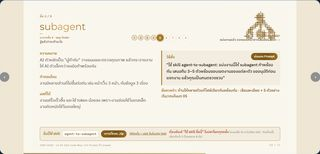
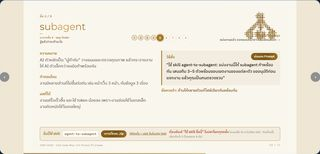
Vibe Code Way: hand out only the 6 skills used (own zip); add the Git prompt page after step 1; drop references to cut steps (test, push github) and other chapters
Claude-Session: https://claude.ai/code/session_01B1v9jyRD8MFjcV6ktsYkvy

diff --git a/cover/vibe/deck-04.html b/cover/vibe/deck-04.html
@@ -191,13 +191,13 @@ html.thumb .say-cpy{display:none}
   <canvas id="dust"></canvas>
   <section class="slide" data-dust="num:04">
     <div class="abs kick r" style="left:6cqw;top:5cqw">Gen AI Space · Vibe Code</div>
-    <div class="abs kick r" style="right:6cqw;top:5cqw">คอร์ส 1 วัน</div>
-    <div class="abs r" style="left:6cqw;bottom:6.5cqw;width:60cqw;--d:.8"><div class="kick">บท 04</div><h2 style="font-size:4cqw">Vibe Code Way: จาก Prompt ถึง Create</h2></div>
+    
+    <div class="abs r" style="left:6cqw;bottom:6.5cqw;width:60cqw;--d:.8"><div class="kick">Vibe Code</div><h2 style="font-size:4cqw">Vibe Code Way: จาก Prompt ถึง Create</h2></div>
   </section>
 
 
   <section class="slide" data-dust="none" id="vcw">
-    <div class="r" style="--d:0"><div class="kick">บท 04 · ความหมายในหน้าเดียว · กดที่ขั้นไหนเพื่อเปิดหน้านั้น</div><h2>Vibe Code Way <em>9 ขั้น</em></h2></div>
+    <div class="r" style="--d:0"><div class="kick">ความหมายในหน้าเดียว · กดที่ขั้นไหนเพื่อเปิดหน้านั้น</div><h2>Vibe Code Way <em>9 ขั้น</em></h2></div>
         <svg class="abs vsvg" style="left:0;top:0;width:100cqw;height:56.25cqw" viewBox="0 0 100 56.25" preserveAspectRatio="none" aria-hidden="true">
       <defs><marker id="vah" viewBox="0 0 10 10" refX="9" refY="5" markerUnits="userSpaceOnUse" markerWidth="1.4" markerHeight="1.4" orient="auto"><path d="M0 0L10 5L0 10z" fill="#a27628"/></marker></defs>
       <path class="va" style="--i:0" d="M21.6 18.0 L23.8 18.0"/>
@@ -211,12 +211,12 @@ html.thumb .say-cpy{display:none}
       <path id="vtravel" d="M13.8 18.0 L31.9 18.0 L50.0 18.0 L68.1 18.0 L86.2 18.0 L86.2 29.8 L68.1 29.8 L50.0 29.8 L31.9 29.8" fill="none" stroke="none"/>
     </svg>
     <div class="vlight"></div>
-      <div class="vn prep" style="left:6.0cqw;top:13.2cqw;--i:0"><b>1</b><span>install git</span><small>มีจุดเซฟ ย้อนกลับได้ (บท 02)</small><i>เตรียม</i></div>
+      <div class="vn prep" style="left:6.0cqw;top:13.2cqw;--i:0"><b>1</b><span>install git</span><small>มีจุดเซฟ ย้อนกลับได้</small><i>เตรียม</i></div>
       <div class="vn start" style="left:24.1cqw;top:13.2cqw;--i:1"><b>2</b><span>Prompt</span><small>บอกโจทย์เป็นภาษาคน</small><i>เริ่ม</i></div>
       <div class="vn plan" style="left:42.2cqw;top:13.2cqw;--i:2"><b>3</b><span>grill</span><small>ให้ AI จี้ถามทีละข้อจนโจทย์ชัด</small><i>วางแผน</i></div>
       <div class="vn plan" style="left:60.3cqw;top:13.2cqw;--i:3"><b>4</b><span>way finder</span><small>ลังเล? ให้ AI สรุป 3 ทางเลือกแล้วเคาะ</small><i>วางแผน</i></div>
       <div class="vn build" style="left:78.4cqw;top:13.2cqw;--i:4"><b>5</b><span>subagent</span><small>แบ่งงานให้ผู้ช่วยย่อยทำพร้อมกัน</small><i>แบ่งงาน</i></div>
-      <div class="vn plan" style="left:78.4cqw;top:25.0cqw;--i:5"><b>6</b><span>design</span><small>ออกแบบ UX/UI ก่อนสร้าง ได้ DESIGN.md (บท 07)</small><i>ออกแบบ</i></div>
+      <div class="vn plan" style="left:78.4cqw;top:25.0cqw;--i:5"><b>6</b><span>design</span><small>ออกแบบ UX/UI ก่อนสร้าง ได้ DESIGN.md</small><i>ออกแบบ</i></div>
       <div class="vn note" style="left:60.3cqw;top:25.0cqw;--i:6"><b>7</b><span>PRD</span><small>เขียนสเปกงาน: ทำอะไร ใครใช้ เสร็จคือแบบไหน</small><i>บันทึก</i></div>
       <div class="vn check" style="left:42.2cqw;top:25.0cqw;--i:7"><b>8</b><span>review 10</span><small>ให้ AI ให้คะแนน PRD เต็ม 10 แก้จนผ่าน</small><i>ตรวจสอบ</i></div>
       <div class="vn build" style="left:24.1cqw;top:25.0cqw;--i:8"><b>9</b><span>create</span><small>สร้างทีละส่วน Brick by Brick</small><i>สร้าง</i></div>
@@ -225,7 +225,7 @@ html.thumb .say-cpy{display:none}
   </section>
 
   <section class="slide" data-dust="none">
-    <div class="r" style="--d:0"><div class="kick">บท 04 · ติดตั้งครั้งเดียว</div><h2>รวม Skill ที่ต้องใช้ <em>โหลดไฟล์เดียว ติดตั้งทีเดียว</em></h2></div>
+    <div class="r" style="--d:0"><div class="kick">ติดตั้งครั้งเดียว</div><h2>รวม Skill ที่ต้องใช้ <em>โหลดไฟล์เดียว ติดตั้งทีเดียว</em></h2></div>
     <div class="abs r sk7" style="left:6cqw;top:12.6cqw;width:52cqw;--d:.4">
       <div class="row h"><span>skill</span><span>ใช้ในขั้น</span><span>ทำอะไร</span></div>
       <div class="row"><code>grill-with-doc</code><span>3 grill</span><span>จี้ถามทีละข้อจนโจทย์ชัด</span></div>
@@ -234,26 +234,26 @@ html.thumb .say-cpy{display:none}
       <div class="row"><code>to-prd</code><span>7 PRD</span><span>เขียนสเปกงานจากที่คุยกัน</span></div>
       <div class="row"><code>self-review-to-10</code><span>8 review 10</span><span>ให้คะแนน PRD เต็ม 10 แก้จนผ่าน</span></div>
       <div class="row"><code>frontend-design</code><span>9 create</span><span>ออกแบบหน้าเว็บให้สวยใช้ได้จริง</span></div>
-      <a class="bigdl" href="../assets/skills/vibe-code-skills.zip?v=2" download="vibe-code-skills.zip">ดาวน์โหลดรวม 8 skill (ไฟล์เดียว .zip)</a>
+      <a class="bigdl" href="https://agentic-ai-for-everything.vercel.app/assets/skills/vibe-code-way-6-skills.zip" download="vibe-code-way-6-skills.zip">ดาวน์โหลดรวม 6 skill (ไฟล์เดียว .zip)</a>
       <p class="tiny">ไฟล์ต้นทางรายตัวอยู่ที่ <a href="https://genaispace.net/skill-vault/" target="_blank" rel="noopener">genaispace.net/skill-vault</a> · ใช้ได้ทั้ง Claude Code และ Codex</p>
     </div>
     <div class="abs r inst" style="left:61cqw;width:33cqw;top:12.6cqw;--d:.7">
-      <div><b><i>1</i>แตก zip</b><span>ได้โฟลเดอร์ 8 โฟลเดอร์ + README.md</span></div>
-      <div><b><i>2</i>ลากทั้ง 8 โฟลเดอร์ไปวางทีเดียว</b><span>วางใน my-vibecode-workspace\skills\ ที่ Prompt บท 02 สร้างไว้ให้แล้ว ใช้ได้ทั้ง Claude และ Codex</span><span class="alt">อยากใช้ทุกโปรเจกต์: วางที่ C:\Users\&lt;ชื่อ&gt;\.claude\skills\ (Claude) หรือ .codex\skills\ (Codex) แทน</span></div>
+      <div><b><i>1</i>แตก zip</b><span>ได้โฟลเดอร์ 6 โฟลเดอร์ + README.md</span></div>
+      <div><b><i>2</i>ลากทั้ง 6 โฟลเดอร์ไปวางทีเดียว</b><span>วางใน my-vibecode-workspace\skills\ ที่สร้างไว้แล้ว ใช้ได้ทั้ง Claude และ Codex</span><span class="alt">อยากใช้ทุกโปรเจกต์: วางที่ C:\Users\&lt;ชื่อ&gt;\.claude\skills\ (Claude) หรือ .codex\skills\ (Codex) แทน</span></div>
       <div><b><i>3</i>สั่งครั้งแรก ให้ AI เรียนรู้</b><p class="say2">"เข้าดูโฟลเดอร์ skills ของคุณ อ่าน README.md และ SKILL.md ของทุก skill แล้วสรุปว่ามีอะไรบ้าง ใช้ตอนไหน"</p></div>
       <div class="must"><b>ตอนใช้ ต้องบอกชื่อทุกครั้ง</b><span>พิมพ์ "ใช้ skill grill-with-doc: ..." ไม่บอกชื่อ AI จะไม่เรียก skill ให้ (ประโยคในแต่ละขั้นมีชื่อใส่ไว้แล้ว)</span></div>
     </div>
   </section>
   <section class="slide" data-dust="corner:git">
     <div class="r" style="--d:0"><div class="kick">ขั้น 1 / 9</div><h2><em>install git</em></h2></div>
-    <div class="flow r" style="--d:.25"><span class="pv"><small>จุดเริ่มต้น</small>ทำครั้งเดียวต่อเครื่อง (บท 02)</span><div class="dots"><i class="cur" title="1 install git">1</i><i class="" title="2 Prompt">2</i><i class="" title="3 grill">3</i><i class="" title="4 way finder">4</i><i class="" title="5 subagent">5</i><i class="" title="6 design">6</i><i class="" title="7 PRD">7</i><i class="" title="8 review 10">8</i><i class="" title="9 create">9</i></div><span class="nx"><small>ไปต่อขั้น 2 · Prompt</small>มีจุดเซฟแล้ว ค่อยเริ่มสั่งงาน</span></div>
+    <div class="flow r" style="--d:.25"><span class="pv"><small>จุดเริ่มต้น</small>ทำครั้งเดียวต่อเครื่อง</span><div class="dots"><i class="cur" title="1 install git">1</i><i class="" title="2 Prompt">2</i><i class="" title="3 grill">3</i><i class="" title="4 way finder">4</i><i class="" title="5 subagent">5</i><i class="" title="6 design">6</i><i class="" title="7 PRD">7</i><i class="" title="8 review 10">8</i><i class="" title="9 create">9</i></div><span class="nx"><small>ไปต่อขั้น 2 · Prompt</small>มีจุดเซฟแล้ว ค่อยเริ่มสั่งงาน</span></div>
     <div class="st r" style="--d:.5">
       <dl>
         <div><dt>ความหมาย</dt><dd>ติดตั้ง Git ให้เครื่องเก็บ "จุดเซฟ" ของงานได้ แก้แล้วไม่ชอบก็ย้อนกลับได้</dd></div>
-        <div><dt>ทำตอนไหน</dt><dd>ครั้งเดียวต่อเครื่อง ก่อนเริ่มงานแรก (ทำไปแล้วในบท 02 สไลด์ 8)</dd></div>
-        <div><dt>ผลที่ได้</dt><dd>ทุกขั้นหลังจากนี้มีจุดเซฟรองรับ: create เซฟทุกส่วนที่ใช้ได้, push github ส่งจุดเซฟขึ้นคลาวด์</dd></div>
+        <div><dt>ทำตอนไหน</dt><dd>ครั้งเดียวต่อเครื่อง ก่อนเริ่มงานแรก</dd></div>
+        <div><dt>ผลที่ได้</dt><dd>ทุกขั้นหลังจากนี้มีจุดเซฟรองรับ: create เซฟทุกส่วนที่ใช้ได้</dd></div>
       </dl>
-      <div><div class="say"><small>วิธีสั่ง</small><p>วาง Prompt ① "ติดตั้ง Git" แล้ว Prompt ② "เริ่มเก็บจุดเซฟ" จากบท 02 สไลด์ 8<br><br>ระหว่างทำงาน พูดแค่ "เซฟจุดนี้ไว้หน่อย" หรือ "ย้อนกลับไปตอนที่เซฟไว้" ไม่ต้องรู้คำสั่ง Git</p></div>
+      <div><div class="say"><small>วิธีสั่ง</small><p>วาง Prompt ① "ติดตั้ง Git" แล้ว Prompt ② "เริ่มเก็บจุดเซฟ" จากหน้าถัดไป<br><br>ระหว่างทำงาน พูดแค่ "เซฟจุดนี้ไว้หน่อย" หรือ "ย้อนกลับไปตอนที่เซฟไว้" ไม่ต้องรู้คำสั่ง Git</p></div>
         <p class="warn"><b>ข้อควรจำ:</b> โฟลเดอร์งานใหม่นอก my-vibecode-workspace ต้องวาง Prompt ② ใหม่อีกครั้ง ส่วน Prompt ① ไม่ต้องทำซ้ำ</p></div>
     </div>
   </section>
@@ -275,7 +275,7 @@ html.thumb .say-cpy{display:none}
   <section class="slide" data-dust="corner:question">
     <div class="r" style="--d:0"><div class="kick">ขั้น 3 / 9</div><h2><em>grill</em></h2></div>
     <div class="flow r" style="--d:.25"><span class="pv"><small>มาจากขั้น 2 · Prompt</small>มีโจทย์ตั้งต้นจากขั้น 2</span><div class="dots"><i class="done" title="1 install git">1</i><i class="done" title="2 Prompt">2</i><i class="cur" title="3 grill">3</i><i class="" title="4 way finder">4</i><i class="" title="5 subagent">5</i><i class="" title="6 design">6</i><i class="" title="7 PRD">7</i><i class="" title="8 review 10">8</i><i class="" title="9 create">9</i></div><span class="nx"><small>ไปต่อขั้น 4 · way finder</small>ถ้าคุยแล้วยังลังเล ใช้ way finder</span></div>
-    <div class="skl r" style="--d:1.2"><b>ขั้นนี้ใช้ skill</b><code>grill-with-doc</code><a class="dl" href="https://genaispace.net/wp-content/uploads/2026/09/grill-with-doc-1b86576b-public-20260906.zip" target="_blank" rel="noopener">ดาวน์โหลด .zip</a><a class="dl2" href="https://genaispace.net/skill-vault/" target="_blank" rel="noopener">วิธีติดตั้ง + skill อื่นในคลัง Skill</a><span><b style="color:#b4552f">ต้องพิมพ์ "ใช้ skill ชื่อนี้" ในประโยคทุกครั้ง</b> ไม่บอกชื่อ AI จะไม่เรียก skill · ติดตั้งครั้งเดียวที่หน้า 3 (โหลดรวม 8 ตัว)</span></div>
+    <div class="skl r" style="--d:1.2"><b>ขั้นนี้ใช้ skill</b><code>grill-with-doc</code><a class="dl" href="https://genaispace.net/wp-content/uploads/2026/09/grill-with-doc-1b86576b-public-20260906.zip" target="_blank" rel="noopener">ดาวน์โหลด .zip</a><a class="dl2" href="https://genaispace.net/skill-vault/" target="_blank" rel="noopener">วิธีติดตั้ง + skill อื่นในคลัง Skill</a><span><b style="color:#b4552f">ต้องพิมพ์ "ใช้ skill ชื่อนี้" ในประโยคทุกครั้ง</b> ไม่บอกชื่อ AI จะไม่เรียก skill · ติดตั้งครั้งเดียวที่หน้า 3 (โหลดรวม 6 ตัว)</span></div>
     <div class="st r" style="--d:.5">
       <dl>
         <div><dt>ความหมาย</dt><dd>ให้ AI "ย่าง" เรา คือจี้ถามทีละข้อจนโจทย์ชัด ก่อนเขียนโค้ดแม้แต่บรรทัดเดียว</dd></div>
@@ -290,7 +290,7 @@ html.thumb .say-cpy{display:none}
   <section class="slide" data-dust="corner:signpost">
     <div class="r" style="--d:0"><div class="kick">ขั้น 4 / 9</div><h2><em>way finder</em></h2></div>
     <div class="flow r" style="--d:.25"><span class="pv"><small>มาจากขั้น 3 · grill</small>grill แล้วยังเลือกไม่ถูก</span><div class="dots"><i class="done" title="1 install git">1</i><i class="done" title="2 Prompt">2</i><i class="done" title="3 grill">3</i><i class="cur" title="4 way finder">4</i><i class="" title="5 subagent">5</i><i class="" title="6 design">6</i><i class="" title="7 PRD">7</i><i class="" title="8 review 10">8</i><i class="" title="9 create">9</i></div><span class="nx"><small>ไปต่อขั้น 5 · subagent</small>ตกผลึกแล้ว แบ่งงานได้</span></div>
-    <div class="skl r" style="--d:1.2"><b>ขั้นนี้ใช้ skill</b><code>wayfinder-for-web-app-game</code><a class="dl" href="https://genaispace.net/wp-content/uploads/2026/09/wayfinder-for-web-app-game-491822d1-public-20260906.zip" target="_blank" rel="noopener">ดาวน์โหลด .zip</a><a class="dl2" href="https://genaispace.net/skill-vault/" target="_blank" rel="noopener">วิธีติดตั้ง + skill อื่นในคลัง Skill</a><span><b style="color:#b4552f">ต้องพิมพ์ "ใช้ skill ชื่อนี้" ในประโยคทุกครั้ง</b> ไม่บอกชื่อ AI จะไม่เรียก skill · ติดตั้งครั้งเดียวที่หน้า 3 (โหลดรวม 8 ตัว)</span></div>
+    <div class="skl r" style="--d:1.2"><b>ขั้นนี้ใช้ skill</b><code>wayfinder-for-web-app-game</code><a class="dl" href="https://genaispace.net/wp-content/uploads/2026/09/wayfinder-for-web-app-game-491822d1-public-20260906.zip" target="_blank" rel="noopener">ดาวน์โหลด .zip</a><a class="dl2" href="https://genaispace.net/skill-vault/" target="_blank" rel="noopener">วิธีติดตั้ง + skill อื่นในคลัง Skill</a><span><b style="color:#b4552f">ต้องพิมพ์ "ใช้ skill ชื่อนี้" ในประโยคทุกครั้ง</b> ไม่บอกชื่อ AI จะไม่เรียก skill · ติดตั้งครั้งเดียวที่หน้า 3 (โหลดรวม 6 ตัว)</span></div>
     <div class="st r" style="--d:.5">
       <dl>
         <div><dt>ความหมาย</dt><dd>ตัวจบการถกเถียง เมื่อคุยกันหลายรอบแล้วยังไม่ตกผลึก ลังเล วนไปวนมา</dd></div>
@@ -305,7 +305,7 @@ html.thumb .say-cpy{display:none}
   <section class="slide" data-dust="corner:network">
     <div class="r" style="--d:0"><div class="kick">ขั้น 5 / 9</div><h2><em>subagent</em></h2></div>
     <div class="flow r" style="--d:.25"><span class="pv"><small>มาจากขั้น 4 · way finder</small>รู้แล้วว่าจะทำอะไร</span><div class="dots"><i class="done" title="1 install git">1</i><i class="done" title="2 Prompt">2</i><i class="done" title="3 grill">3</i><i class="done" title="4 way finder">4</i><i class="cur" title="5 subagent">5</i><i class="" title="6 design">6</i><i class="" title="7 PRD">7</i><i class="" title="8 review 10">8</i><i class="" title="9 create">9</i></div><span class="nx"><small>ไปต่อขั้น 6 · design</small>แบ่งงานแล้ว ออกแบบหน้าตาก่อนเขียนสเปก</span></div>
-    <div class="skl r" style="--d:1.2"><b>ขั้นนี้ใช้ skill</b><code>agent-to-subagent</code><a class="dl" href="https://genaispace.net/wp-content/uploads/2026/09/agent-to-subagent-2.zip" target="_blank" rel="noopener">ดาวน์โหลด .zip</a><a class="dl2" href="https://genaispace.net/skill-vault/" target="_blank" rel="noopener">วิธีติดตั้ง + skill อื่นในคลัง Skill</a><span><b style="color:#b4552f">ต้องพิมพ์ "ใช้ skill ชื่อนี้" ในประโยคทุกครั้ง</b> ไม่บอกชื่อ AI จะไม่เรียก skill · ติดตั้งครั้งเดียวที่หน้า 3 (โหลดรวม 8 ตัว)</span></div>
+    <div class="skl r" style="--d:1.2"><b>ขั้นนี้ใช้ skill</b><code>agent-to-subagent</code><a class="dl" href="https://genaispace.net/wp-content/uploads/2026/09/agent-to-subagent-2.zip" target="_blank" rel="noopener">ดาวน์โหลด .zip</a><a class="dl2" href="https://genaispace.net/skill-vault/" target="_blank" rel="noopener">วิธีติดตั้ง + skill อื่นในคลัง Skill</a><span><b style="color:#b4552f">ต้องพิมพ์ "ใช้ skill ชื่อนี้" ในประโยคทุกครั้ง</b> ไม่บอกชื่อ AI จะไม่เรียก skill · ติดตั้งครั้งเดียวที่หน้า 3 (โหลดรวม 6 ตัว)</span></div>
     <div class="st r" style="--d:.5">
       <dl>
         <div><dt>ความหมาย</dt><dd>AI ตัวหลักเป็น "ผู้กำกับ" วางแผนและตรวจคุณภาพ แล้วกระจายงานให้ AI ตัวเล็กกว่าลงมือทำพร้อมกัน</dd></div>
@@ -313,7 +313,7 @@ html.thumb .say-cpy{display:none}
         <div><dt>ผลที่ได้</dt><dd>งานเสร็จเร็วขึ้น และใช้ token น้อยลง เพราะงานย่อยใช้โมเดลเล็ก งานคิดหนักใช้โมเดลใหญ่</dd></div>
       </dl>
       <div><div class="say"><small>วิธีสั่ง</small><p>"ใช้ skill agent-to-subagent: แบ่งงานนี้ให้ subagent ทำพร้อมกัน เสนอทีม 3–5 ตัวพร้อมขอบเขตงานของแต่ละตัว ขออนุมัติก่อนแจกงาน แล้วคุณเป็นคนตรวจรวม"</p><button type="button" class="cpy say-cpy" data-text="ใช้ skill agent-to-subagent: แบ่งงานนี้ให้ subagent ทำพร้อมกัน เสนอทีม 3–5 ตัวพร้อมขอบเขตงานของแต่ละตัว ขออนุมัติก่อนแจกงาน แล้วคุณเป็นคนตรวจรวม">คัดลอก Prompt</button></div>
-        <p class="warn"><b>ข้อควรจำ:</b> ห้ามให้หลายตัวแก้ไฟล์เดียวกันพร้อมกัน · เรียนละเอียด + 5 ตัวอย่างเว็บ/เกมในบท 05</p></div>
+        <p class="warn"><b>ข้อควรจำ:</b> ห้ามให้หลายตัวแก้ไฟล์เดียวกันพร้อมกัน</p></div>
     </div>
   </section>
 
@@ -326,20 +326,20 @@ html.thumb .say-cpy{display:none}
         <div><dt>ทำตอนไหน</dt><dd>หลังรู้ว่าจะทำอะไร (grill / way finder) ก่อนเขียน PRD</dd></div>
         <div><dt>ผลที่ได้</dt><dd>DESIGN.md + แบบหน้าแรกจาก Claude Design, Google Stitch หรือ Refero Styles แล้วเอาไปอ้างใน PRD</dd></div>
       </dl>
-      <div><div class="say"><small>วิธีสั่ง (prompt จริงจากบท 07)</small><p>"อ่านทุกไฟล์ในโฟลเดอร์ resource (โลโก้ ฟอนต์ ข้อมูลแบรนด์) แล้วสร้างไฟล์ DESIGN.md ที่ root ของโปรเจกต์<br>ให้มีหัวข้อ: ภาพรวม / สี / ตัวอักษร / ระยะห่างและ layout / มุมโค้งและเงา / ปุ่มและการ์ด / ควรทำ-ห้ามทำ<br>ใช้ค่าจริงจากไฟล์ใน resource เท่านั้น ห้ามเดาสีหรือฟอนต์เพิ่มเอง เขียนเป็นภาษาไทยอ่านง่าย"</p><button type="button" class="cpy say-cpy" data-text="อ่านทุกไฟล์ในโฟลเดอร์ resource (โลโก้ ฟอนต์ ข้อมูลแบรนด์) แล้วสร้างไฟล์ DESIGN.md ที่ root ของโปรเจกต์&#10;ให้มีหัวข้อ: ภาพรวม / สี / ตัวอักษร / ระยะห่างและ layout / มุมโค้งและเงา / ปุ่มและการ์ด / ควรทำ-ห้ามทำ&#10;ใช้ค่าจริงจากไฟล์ใน resource เท่านั้น ห้ามเดาสีหรือฟอนต์เพิ่มเอง เขียนเป็นภาษาไทยอ่านง่าย">คัดลอก Prompt</button></div>
-        <p class="warn"><b>ข้อควรจำ:</b> ไม่บอกเรื่องหน้าตา AI จะเลือกเองหมด · ขั้นนี้ไม่ต้องใช้ skill วิธีละเอียด เครื่องมือ 3 ตัว และหลัก 8 ข้อ อยู่ในบท 07</p></div>
+      <div><div class="say"><small>วิธีสั่ง</small><p>"อ่านทุกไฟล์ในโฟลเดอร์ resource (โลโก้ ฟอนต์ ข้อมูลแบรนด์) แล้วสร้างไฟล์ DESIGN.md ที่ root ของโปรเจกต์<br>ให้มีหัวข้อ: ภาพรวม / สี / ตัวอักษร / ระยะห่างและ layout / มุมโค้งและเงา / ปุ่มและการ์ด / ควรทำ-ห้ามทำ<br>ใช้ค่าจริงจากไฟล์ใน resource เท่านั้น ห้ามเดาสีหรือฟอนต์เพิ่มเอง เขียนเป็นภาษาไทยอ่านง่าย"</p><button type="button" class="cpy say-cpy" data-text="อ่านทุกไฟล์ในโฟลเดอร์ resource (โลโก้ ฟอนต์ ข้อมูลแบรนด์) แล้วสร้างไฟล์ DESIGN.md ที่ root ของโปรเจกต์&#10;ให้มีหัวข้อ: ภาพรวม / สี / ตัวอักษร / ระยะห่างและ layout / มุมโค้งและเงา / ปุ่มและการ์ด / ควรทำ-ห้ามทำ&#10;ใช้ค่าจริงจากไฟล์ใน resource เท่านั้น ห้ามเดาสีหรือฟอนต์เพิ่มเอง เขียนเป็นภาษาไทยอ่านง่าย">คัดลอก Prompt</button></div>
+        <p class="warn"><b>ข้อควรจำ:</b> ไม่บอกเรื่องหน้าตา AI จะเลือกเองหมด · ขั้นนี้ไม่ต้องใช้ skill</p></div>
     </div>
   </section>
 
   <section class="slide" data-dust="corner:doc">
     <div class="r" style="--d:0"><div class="kick">ขั้น 7 / 9</div><h2><em>PRD</em></h2></div>
     <div class="flow r" style="--d:.25"><span class="pv"><small>มาจากขั้น 6 · design</small>ได้ DESIGN.md และแบบหน้าแรกแล้ว</span><div class="dots"><i class="done" title="1 install git">1</i><i class="done" title="2 Prompt">2</i><i class="done" title="3 grill">3</i><i class="done" title="4 way finder">4</i><i class="done" title="5 subagent">5</i><i class="done" title="6 design">6</i><i class="cur" title="7 PRD">7</i><i class="" title="8 review 10">8</i><i class="" title="9 create">9</i></div><span class="nx"><small>ไปต่อขั้น 8 · review 10</small>เขียน PRD แล้ว ให้ AI ตรวจให้ได้ 10</span></div>
-    <div class="skl r" style="--d:1.2"><b>ขั้นนี้ใช้ skill</b><code>to-prd</code><a class="dl" href="https://genaispace.net/wp-content/uploads/2026/09/mattpocock-skills-to-prd-b83e7343-public-20260906.zip" target="_blank" rel="noopener">ดาวน์โหลด .zip</a><a class="dl2" href="https://genaispace.net/skill-vault/" target="_blank" rel="noopener">วิธีติดตั้ง + skill อื่นในคลัง Skill</a><span><b style="color:#b4552f">ต้องพิมพ์ "ใช้ skill ชื่อนี้" ในประโยคทุกครั้ง</b> ไม่บอกชื่อ AI จะไม่เรียก skill · ติดตั้งครั้งเดียวที่หน้า 3 (โหลดรวม 8 ตัว)</span></div>
+    <div class="skl r" style="--d:1.2"><b>ขั้นนี้ใช้ skill</b><code>to-prd</code><a class="dl" href="https://genaispace.net/wp-content/uploads/2026/09/mattpocock-skills-to-prd-b83e7343-public-20260906.zip" target="_blank" rel="noopener">ดาวน์โหลด .zip</a><a class="dl2" href="https://genaispace.net/skill-vault/" target="_blank" rel="noopener">วิธีติดตั้ง + skill อื่นในคลัง Skill</a><span><b style="color:#b4552f">ต้องพิมพ์ "ใช้ skill ชื่อนี้" ในประโยคทุกครั้ง</b> ไม่บอกชื่อ AI จะไม่เรียก skill · ติดตั้งครั้งเดียวที่หน้า 3 (โหลดรวม 6 ตัว)</span></div>
     <div class="st r" style="--d:.5">
       <dl>
         <div><dt>ความหมาย</dt><dd>Product Requirements Document เอกสารสเปกงาน 1 ไฟล์ บอกว่าจะสร้างอะไร ใครใช้ ทำอะไรได้บ้าง อะไรไม่ทำ และแบบไหนเรียกว่าเสร็จ</dd></div>
         <div><dt>ทำตอนไหน</dt><dd>หลัง grill และ design ก่อน review 10 และ create</dd></div>
-        <div><dt>ผลที่ได้</dt><dd>ไฟล์ที่ AI อ่านซ้ำได้ทุกแชท เปลี่ยนวันหรือเปลี่ยนแอปก็ทำต่อได้ (ใน workspace บท 03 คือ BRIEF.md + SPEC.md)</dd></div>
+        <div><dt>ผลที่ได้</dt><dd>ไฟล์ที่ AI อ่านซ้ำได้ทุกแชท เปลี่ยนวันหรือเปลี่ยนแอปก็ทำต่อได้ (ใน workspace คือ BRIEF.md + SPEC.md)</dd></div>
       </dl>
       <div><div class="say"><small>วิธีสั่ง</small><p>"ใช้ skill to-prd: เขียน PRD จากที่คุยกัน บันทึกเป็นไฟล์ในโฟลเดอร์โปรเจกต์ ให้มีหัวข้อ เป้าหมาย ผู้ใช้ สิ่งที่ทำได้ สิ่งที่ไม่ทำ เกณฑ์ว่าเสร็จ และลำดับงาน"</p><button type="button" class="cpy say-cpy" data-text="ใช้ skill to-prd: เขียน PRD จากที่คุยกัน บันทึกเป็นไฟล์ในโฟลเดอร์โปรเจกต์ ให้มีหัวข้อ เป้าหมาย ผู้ใช้ สิ่งที่ทำได้ สิ่งที่ไม่ทำ เกณฑ์ว่าเสร็จ และลำดับงาน">คัดลอก Prompt</button></div>
         <p class="warn"><b>ข้อควรจำ:</b> ขอให้ AI วางแผนยังไม่ใช่คำสั่งให้สร้าง ต้องบอก "เริ่มสร้าง" เอง</p></div>
@@ -349,7 +349,7 @@ html.thumb .say-cpy{display:none}
   <section class="slide" data-dust="corner:ten">
     <div class="r" style="--d:0"><div class="kick">ขั้น 8 / 9</div><h2><em>review 10</em></h2></div>
     <div class="flow r" style="--d:.25"><span class="pv"><small>มาจากขั้น 7 · PRD</small>PRD ที่เขียนเสร็จ</span><div class="dots"><i class="done" title="1 install git">1</i><i class="done" title="2 Prompt">2</i><i class="done" title="3 grill">3</i><i class="done" title="4 way finder">4</i><i class="done" title="5 subagent">5</i><i class="done" title="6 design">6</i><i class="done" title="7 PRD">7</i><i class="cur" title="8 review 10">8</i><i class="" title="9 create">9</i></div><span class="nx"><small>ไปต่อขั้น 9 · create</small>PRD ได้ 10 แล้ว เราสั่ง "เริ่มสร้าง"</span></div>
-    <div class="skl r" style="--d:1.2"><b>ขั้นนี้ใช้ skill</b><code>self-review-to-10</code><a class="dl" href="https://genaispace.net/wp-content/uploads/2026/10/self-review-to-10-v2-20261024.zip" target="_blank" rel="noopener">ดาวน์โหลด .zip</a><a class="dl2" href="https://genaispace.net/skill-vault/" target="_blank" rel="noopener">วิธีติดตั้ง + skill อื่นในคลัง Skill</a><span><b style="color:#b4552f">ต้องพิมพ์ "ใช้ skill ชื่อนี้" ในประโยคทุกครั้ง</b> ไม่บอกชื่อ AI จะไม่เรียก skill · ติดตั้งครั้งเดียวที่หน้า 3 (โหลดรวม 8 ตัว)</span></div>
+    <div class="skl r" style="--d:1.2"><b>ขั้นนี้ใช้ skill</b><code>self-review-to-10</code><a class="dl" href="https://genaispace.net/wp-content/uploads/2026/10/self-review-to-10-v2-20261024.zip" target="_blank" rel="noopener">ดาวน์โหลด .zip</a><a class="dl2" href="https://genaispace.net/skill-vault/" target="_blank" rel="noopener">วิธีติดตั้ง + skill อื่นในคลัง Skill</a><span><b style="color:#b4552f">ต้องพิมพ์ "ใช้ skill ชื่อนี้" ในประโยคทุกครั้ง</b> ไม่บอกชื่อ AI จะไม่เรียก skill · ติดตั้งครั้งเดียวที่หน้า 3 (โหลดรวม 6 ตัว)</span></div>
     <div class="st r" style="--d:.5">
       <dl>
         <div><dt>ความหมาย</dt><dd>ให้ AI ตรวจงานตัวเองเทียบกับข้อกำหนด ให้คะแนนเต็ม 10 ระบุจุดหัก แก้ แล้วตรวจซ้ำ</dd></div>
@@ -364,7 +364,7 @@ html.thumb .say-cpy{display:none}
   <section class="slide" data-dust="corner:bricks">
     <div class="r" style="--d:0"><div class="kick">ขั้น 9 / 9</div><h2><em>create</em></h2></div>
     <div class="flow r" style="--d:.25"><span class="pv"><small>มาจากขั้น 8 · review 10</small>สร้างตาม PRD ที่ได้ 10 ไม่ใช่ตามใจ</span><div class="dots"><i class="done" title="1 install git">1</i><i class="done" title="2 Prompt">2</i><i class="done" title="3 grill">3</i><i class="done" title="4 way finder">4</i><i class="done" title="5 subagent">5</i><i class="done" title="6 design">6</i><i class="done" title="7 PRD">7</i><i class="done" title="8 review 10">8</i><i class="cur" title="9 create">9</i></div><span class="nx"><small>ไปต่อขั้น 10 · test</small>สร้างเสร็จยังไม่ใช่ใช้ได้ ต้อง test</span></div>
-    <div class="skl r" style="--d:1.2"><b>ขั้นนี้ใช้ skill</b><code>frontend-design (สำหรับงานหน้าเว็บ)</code><a class="dl" href="https://genaispace.net/wp-content/uploads/2026/09/frontend-design-1ad80c58-public-20260906.zip" target="_blank" rel="noopener">ดาวน์โหลด .zip</a><a class="dl2" href="https://genaispace.net/skill-vault/" target="_blank" rel="noopener">วิธีติดตั้ง + skill อื่นในคลัง Skill</a><span><b style="color:#b4552f">ต้องพิมพ์ "ใช้ skill ชื่อนี้" ในประโยคทุกครั้ง</b> ไม่บอกชื่อ AI จะไม่เรียก skill · ติดตั้งครั้งเดียวที่หน้า 3 (โหลดรวม 8 ตัว)</span></div>
+    <div class="skl r" style="--d:1.2"><b>ขั้นนี้ใช้ skill</b><code>frontend-design (สำหรับงานหน้าเว็บ)</code><a class="dl" href="https://genaispace.net/wp-content/uploads/2026/09/frontend-design-1ad80c58-public-20260906.zip" target="_blank" rel="noopener">ดาวน์โหลด .zip</a><a class="dl2" href="https://genaispace.net/skill-vault/" target="_blank" rel="noopener">วิธีติดตั้ง + skill อื่นในคลัง Skill</a><span><b style="color:#b4552f">ต้องพิมพ์ "ใช้ skill ชื่อนี้" ในประโยคทุกครั้ง</b> ไม่บอกชื่อ AI จะไม่เรียก skill · ติดตั้งครั้งเดียวที่หน้า 3 (โหลดรวม 6 ตัว)</span></div>
     <div class="st r" style="--d:.5">
       <dl>
         <div><dt>ความหมาย</dt><dd>สร้างงานจริงตาม PRD ทีละส่วนจากฐาน (Brick by Brick) ไม่สร้างทุกฟีเจอร์พร้อมกัน</dd></div>
@@ -372,7 +372,7 @@ html.thumb .say-cpy{display:none}
         <div><dt>ผลที่ได้</dt><dd>ก้อนแรกที่เปิดใช้ได้ในเครื่อง + จุดเซฟ git · <b style="color:#b4552f">ขั้นนี้ไม่ได้แปลว่าเสร็จ</b> คือเริ่มสร้างแบบ Brick by Brick ก้อนแรก แล้วค่อยต่อก้อนถัดไป</dd></div>
       </dl>
       <div><div class="say"><small>วิธีสั่ง</small><p>"ใช้ skill frontend-design สำหรับหน้าเว็บ แล้วเริ่มสร้างตาม PRD เอาเส้นหลักเส้นเดียวให้ใช้ได้ก่อน (กรอกข้อมูล → บันทึก → เห็นผล) แสดงให้ดูแล้วค่อยทำส่วนถัดไป"</p><button type="button" class="cpy say-cpy" data-text="ใช้ skill frontend-design สำหรับหน้าเว็บ แล้วเริ่มสร้างตาม PRD เอาเส้นหลักเส้นเดียวให้ใช้ได้ก่อน (กรอกข้อมูล → บันทึก → เห็นผล) แสดงให้ดูแล้วค่อยทำส่วนถัดไป">คัดลอก Prompt</button></div>
-        <p class="warn"><b>ข้อควรจำ:</b> "สร้างเสร็จ" ของ AI = ก้อนแรกใช้ได้ ยังไม่ใช่งานเสร็จ ต้องไปขั้น test ทุกครั้ง แล้ววนกลับมา create ก้อนถัดไป</p></div>
+        <p class="warn"><b>ข้อควรจำ:</b> "สร้างเสร็จ" ของ AI = ก้อนแรกใช้ได้ ยังไม่ใช่งานเสร็จ ลองใช้ก้อนนี้ให้ผ่านก่อน แล้วสั่ง create ก้อนถัดไป</p></div>
     </div>
   </section>
 
@@ -386,7 +386,7 @@ html.thumb .say-cpy{display:none}
 
 
 
-  <div class="foot"><span>VIBE CODE · บท 04 Vibe Code Way: จาก Prompt ถึง Create</span><span id="pg">01 / 12</span></div>
+  <div class="foot"><span>VIBE CODE · Vibe Code Way: จาก Prompt ถึง Create</span><span id="pg">01 / 12</span></div>
   <div class="bar" id="bar"></div>
 </div>
 <div class="nav"><button type="button" id="prev">ก่อนหน้า</button><button type="button" id="next">ถัดไป</button><button type="button" id="fs">เต็มจอ</button></div>

diff --git a/cover/vibe/deck-02.html b/cover/vibe/deck-02.html
@@ -752,7 +752,43 @@ HANDOFF.md
   </section>
   <section class="slide" data-dust="none" id="s025"></section>
   <section class="slide" data-dust="none"></section>
-  <section class="slide" data-dust="none"></section>
+  <section class="slide" data-dust="none">
+    <div class="r" style="--d:0"><div class="kick">02.7</div><h2>install git: <em>คัดลอก วาง กด Enter</em></h2></div>
+    <div class="abs r gsteps" style="left:6cqw;right:6cqw;top:12.4cqw;--d:.4">
+      <div><b>1</b>เปิดแท็บ Code หรือ Codex แล้วเลือกโฟลเดอร์งาน</div>
+      <div><b>2</b>คัดลอก ① ไปวาง แล้วตอบเมื่อ AI ขอข้อมูลที่ยังไม่มี</div>
+      <div><b>3</b>รอให้ AI ยืนยันว่าพร้อม <small class="hint">แล้วค่อยคัดลอก ② ไปวางในแชทเดิม</small></div>
+    </div>
+    <div class="abs r pcard" style="left:6cqw;width:43cqw;top:19.6cqw;--d:.7">
+      <div class="phead"><span>Prompt ① ติดตั้ง Git <small class="once">ทำครั้งเดียวต่อเครื่อง</small></span><button type="button" class="cpy" data-for="gp1">คัดลอก</button></div>
+      <pre id="gp1">ช่วยเตรียม Git ให้เครื่องนี้พร้อมเก็บจุดเซฟ ฉันเป็นมือใหม่ ให้ลงมือทำเองเท่าที่ทำได้
+
+1. ตรวจระบบปฏิบัติการและ Git ถ้ามีแล้วให้ใช้ของเดิม ถ้ายังไม่มี ให้ติดตั้งจากแหล่งทางการที่เหมาะกับเครื่องนี้ ไม่ต้องสมัคร GitHub
+2. ตรวจด้วย git --version ว่าเรียกใช้ได้จริง ถ้าติดตั้งแล้วแต่แอปยังหาไม่เจอ ให้ลองใช้ตำแหน่งที่ติดตั้งก่อน อย่าติดตั้งซ้ำ หากต้องปิดแล้วเปิดแอปใหม่ ให้บอกวิธีกลับมาทำต่อ ถ้าต้องกดอนุญาตหรือใส่รหัสผ่าน ให้ฉันทำเองพร้อมแนะนำทีละขั้น
+3. ตรวจชื่อและอีเมลผู้บันทึกงาน ถ้ามีให้คงเดิม ถ้ายังขาดให้ถามเฉพาะข้อมูลที่ขาดพร้อมกันครั้งเดียว ใช้ชื่อเล่นได้ ไม่ต้องมีบัญชี GitHub และไม่ต้องให้รหัสผ่าน เมื่อฉันตอบแล้วจึงตั้งเฉพาะค่าที่ขาดสำหรับผู้ใช้เครื่องนี้
+
+ห้ามเดาชื่อหรืออีเมล ห้ามแก้หรือลบไฟล์งาน และยังไม่ต้องสร้างจุดเซฟ
+ถ้าทำต่อไม่ได้ ให้บอกสิ่งที่ฉันต้องทำทีละขั้น อย่ารายงานว่าพร้อมจนกว่าจะตรวจ Git และชื่อกับอีเมลผ่านจริง
+
+รายงานสั้น ๆ 3 บรรทัด: เวอร์ชัน Git / ชื่อและอีเมลที่ใช้งาน / พร้อมวาง Prompt ② หรือยัง และถ้ายัง ฉันต้องทำอะไรต่อ</pre>
+    </div>
+    <div class="abs r pcard" style="left:51cqw;width:43cqw;top:19.6cqw;--d:.9">
+      <div class="phead"><span>Prompt ② เริ่มเก็บจุดเซฟ <small class="once">ทำครั้งเดียวต่อโฟลเดอร์งาน</small></span><button type="button" class="cpy" data-for="gp2">คัดลอก</button></div>
+      <pre id="gp2">ช่วยเริ่มเก็บจุดเซฟให้โฟลเดอร์งานที่ฉันเปิดอยู่ โดยรักษางานเดิมทั้งหมด
+
+1. ตรวจว่า Git และชื่อกับอีเมลพร้อมจาก Prompt ① แล้ว ถ้ายังไม่พร้อม ให้ช่วยแก้จุดที่ขาดก่อน
+2. ตรวจตำแหน่งโฟลเดอร์และราก Git ถ้าไม่รู้ว่าฉันเปิดโฟลเดอร์ไหน หรือ Git ครอบคลุมถึงโฟลเดอร์แม่ ให้ถามยืนยันขอบเขตก่อน ห้ามสร้าง Git ซ้อนเอง ถ้ามี Git แล้วให้คง branch ประวัติ และไฟล์ที่เตรียมบันทึกไว้เดิม ถ้ายังไม่มีจึงเริ่ม Git ด้วย branch ชื่อ main
+3. ถ้ามีจุดเซฟแล้ว ให้รายงานจุดล่าสุดกับสถานะงาน ไม่สร้างจุดเซฟซ้ำหรือรวมงานค้างให้เอง ถ้ายังไม่มี ให้สร้างหรือเติม .gitignore โดยคงรายการเดิม กันไฟล์ลับ เช่น .env และไฟล์ติดตั้งหรือไฟล์ชั่วคราวตามชนิดงาน
+4. ก่อนเซฟ ตรวจทั้งเนื้อหาและรายชื่อไฟล์ที่จะบันทึก เลือกเฉพาะไฟล์งานที่ตรวจแล้ว .gitignore ไม่ได้ซ่อนรหัสผ่านในโค้ดหรือกันไฟล์ที่ Git เก็บไว้แล้ว ถ้าพบสิ่งน่าสงสัยให้หยุดก่อนบันทึกและบอกเฉพาะชื่อไฟล์ ห้ามแสดงค่าลับหรือแก้ไฟล์นั้นเอง
+5. ถ้าปลอดภัย ให้สร้างจุดเซฟแรกชื่อ "เริ่มโปรเจกต์" ถ้าโฟลเดอร์ว่างให้บันทึกเฉพาะ .gitignore แล้วตรวจว่าจุดเซฟสำเร็จจริง ถ้าไม่สำเร็จให้บอกสาเหตุและขั้นตอนถัดไป
+
+ห้ามลบหรือเขียนทับไฟล์งาน ห้ามย้อนประวัติ อนุญาตเฉพาะการตั้งค่า Git เติม .gitignore และสร้างจุดเซฟตามเงื่อนไขข้างต้น
+ขั้นนี้เก็บในเครื่องเท่านั้น ไม่สร้าง GitHub repo หรือส่งไฟล์ขึ้นอินเทอร์เน็ต เมื่อถึงบท push หรือ deploy และฉันสั่ง จึงค่อยทำ
+
+เสร็จแล้วบอกสั้น ๆ: โฟลเดอร์ที่ใช้ / ชื่อและรหัสจุดเซฟ / ไฟล์ที่เก็บและเว้นไว้ / พร้อมทำงานต่อหรือยัง</pre>
+    </div>
+    <p class="abs r" style="left:6cqw;right:6cqw;bottom:4.6cqw;--d:1.2;font-size:1.3cqw;line-height:1.45"><b style="color:#b4552f">วาง ① จน AI บอกว่าพร้อม แล้วค่อยวาง ② · เลื่อนในกล่องเพื่ออ่าน Prompt ได้ครบ</b><br>เปิดโฟลเดอร์งานใหม่ → วาง ② ให้ AI ตรวจขอบเขต Git ก่อน · หากต้องติดตั้งด้วยตัวเอง ใช้ <b style="color:var(--gold)">git-scm.com/downloads</b> และให้ AI แนะนำตามเครื่องของเรา ไม่ต้องสมัคร GitHub ในขั้นนี้</p>
+  </section>
   <section class="slide" data-dust="none"></section>
   <section class="slide" data-dust="row:file,save,file,rewind"></section>
 

diff --git a/cover/menu.html b/cover/menu.html
@@ -2367,6 +2367,7 @@
           { type: "profile-site", label: "Vibe Code Way", href: "vibe/deck-04.html?embed=1#2" },
           { type: "profile-site", label: "ติดตั้ง skill", href: "vibe/deck-04.html?embed=1#3" },
           { type: "profile-site", label: "ขั้น 1 · install git", href: "vibe/deck-04.html?embed=1#4" },
+          { type: "profile-site", label: "ขั้น 1 · Prompt ติดตั้ง Git", href: "vibe/deck-02.html?embed=1#8" },
           { type: "profile-site", label: "ขั้น 2 · Prompt", href: "vibe/deck-04.html?embed=1#5" },
           { type: "profile-site", label: "ขั้น 3 · grill", href: "vibe/deck-04.html?embed=1#6" },
           { type: "profile-site", label: "ขั้น 4 · way finder", href: "vibe/deck-04.html?embed=1#7" },

diff --git a/scripts/apply-space-skin.py b/scripts/apply-space-skin.py
@@ -22,6 +22,9 @@ def skin(html, base=None):
     return html[:head.end()] + insert + html[head.end():]
 
 
+TALK_TEXT_FIXES = [('href="../assets/skills/vibe-code-skills.zip?v=2" download="vibe-code-skills.zip"', 'href="https://agentic-ai-for-everything.vercel.app/assets/skills/vibe-code-way-6-skills.zip" download="vibe-code-way-6-skills.zip"'), ('ดาวน์โหลดรวม 8 skill (ไฟล์เดียว .zip)', 'ดาวน์โหลดรวม 6 skill (ไฟล์เดียว .zip)'), ('ได้โฟลเดอร์ 8 โฟลเดอร์ + README.md', 'ได้โฟลเดอร์ 6 โฟลเดอร์ + README.md'), ('ลากทั้ง 8 โฟลเดอร์ไปวางทีเดียว', 'ลากทั้ง 6 โฟลเดอร์ไปวางทีเดียว'), ('(โหลดรวม 8 ตัว)', '(โหลดรวม 6 ตัว)'), (' ที่ Prompt บท 02 สร้างไว้ให้แล้ว', ' ที่สร้างไว้แล้ว'), ('วิธีสั่ง (prompt จริงจากบท 07)', 'วิธีสั่ง'), ('<div class="abs kick r" style="right:6cqw;top:5cqw">คอร์ส 1 วัน</div>', ''), ('<div class="kick">บท 04 · ความหมายในหน้าเดียว ·', '<div class="kick">ความหมายในหน้าเดียว ·'), ('<div class="kick">บท 04 · ติดตั้งครั้งเดียว</div>', '<div class="kick">ติดตั้งครั้งเดียว</div>'), ('VIBE CODE · บท 04 Vibe Code Way', 'VIBE CODE · Vibe Code Way'), ('<div class="kick">บท 04</div><h2', '<div class="kick">Vibe Code</div><h2'), ('มีจุดเซฟ ย้อนกลับได้ (บท 02)', 'มีจุดเซฟ ย้อนกลับได้'), ('ทำครั้งเดียวต่อเครื่อง (บท 02)', 'ทำครั้งเดียวต่อเครื่อง'), ('ได้ DESIGN.md (บท 07)', 'ได้ DESIGN.md'), ('ครั้งเดียวต่อเครื่อง ก่อนเริ่มงานแรก (ทำไปแล้วในบท 02 สไลด์ 8)', 'ครั้งเดียวต่อเครื่อง ก่อนเริ่มงานแรก'), ('"เริ่มเก็บจุดเซฟ" จากบท 02 สไลด์ 8', '"เริ่มเก็บจุดเซฟ" จากหน้าถัดไป'), (' · เรียนละเอียด + 5 ตัวอย่างเว็บ/เกมในบท 05', ''), (' วิธีละเอียด เครื่องมือ 3 ตัว และหลัก 8 ข้อ อยู่ในบท 07', ''), ('(ใน workspace บท 03 คือ BRIEF.md + SPEC.md)', '(ใน workspace คือ BRIEF.md + SPEC.md)'), ('create เซฟทุกส่วนที่ใช้ได้, push github ส่งจุดเซฟขึ้นคลาวด์', 'create เซฟทุกส่วนที่ใช้ได้'), ('ยังไม่ใช่งานเสร็จ ต้องไปขั้น test ทุกครั้ง แล้ววนกลับมา create ก้อนถัดไป', 'ยังไม่ใช่งานเสร็จ ลองใช้ก้อนนี้ให้ผ่านก่อน แล้วสั่ง create ก้อนถัดไป')]
+
+
 def trim_talk_deck(html):
     """Reapply the nine-step talk edit after fetching; safe to run twice."""
     html = html.replace("14 ขั้น", "9 ขั้น").replace(" / 14", " / 9")
@@ -34,6 +37,8 @@ def trim_talk_deck(html):
     html = re.sub(r'^.*<div class="vn end"[^\n]*\n', '', html, flags=re.M)
     html = re.sub(r'^.*<div class="row"><code>(?:scrutinize|debug-mantra)</code>[^\n]*\n', '', html, flags=re.M)
     html = html.replace('01 / 16', '01 / 12')
+    for a, b in TALK_TEXT_FIXES:
+        html = html.replace(a, b)
     # Preserve step 9 copy, hiding only the out-of-scope next-step indicator.
     marker = '<style id="talk-nine-steps">.slide:nth-of-type(12) .nx{display:none}</style>'
     if marker not in html:

diff --git a/README.md b/README.md
@@ -17,3 +17,4 @@
 - Talk copy: Varoriya page 1 lost its "ตัวอย่างงานจริง" strip; new section 18 "ผลงานจริง 6 คลิป" appended after section 17 (2026-11-05).
 - Talk copy: Varoriya page 16 rewritten as web prompts (Seedream Pro, Seedance 2.5, Grok Pro, OmniHuman lip sync, Seed Audio), no MCP wording (2026-11-05).
 - IMPORTANT (2026-11-05): run `python scripts/strip-unused.py` after apply-space-skin.py or any menu page-list change. It blanks every embedded slide the talk does not show (no full course hand-out) and adds a guard so copies only open inside the viewer.
+- Talk Vibe Code Way: 6-skill zip at cover/assets/skills/vibe-code-way-6-skills.zip (scrutinize + debug-mantra removed); deck-04 text fixes live in TALK_TEXT_FIXES in apply-space-skin.py; git prompt page = deck-02 #8 (2026-11-05).
